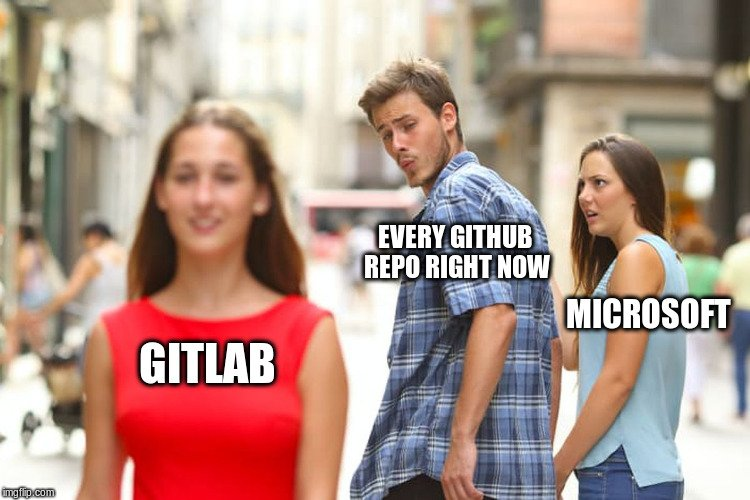
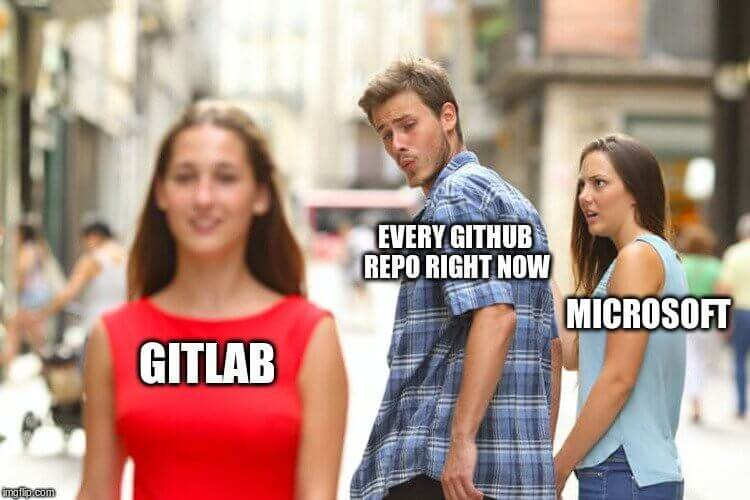
refactor: new essay, resize img, update theme

diff --git a/_posts/2021-5-26-nhap-mon-cong-tac-ky-su-do-an-ca-nhan-cuoi-ky.md b/_posts/2021-5-26-nhap-mon-cong-tac-ky-su-do-an-ca-nhan-cuoi-ky.md
@@ -1,0 +1,143 @@
+---
+title: Nhập Môn Công Tác Kỹ Sư - Đồ Án Cá Nhân Cuối Kỳ
+author: thuanpham2311
+date: 2021-05-26 17:07
+categories: [essay]
+tags: [university]
+---
+
+<center>Phạm Tấn Thuận</center>
+<center>MSSV: DH51902283</center>
+<center>Email: phamtanthuan2311@gmail.com</center>
+<center>Website: http://github.com/thuanpham2311</center>
+<center>Đại Học Công Nghệ Sài Gòn</center>
+
+![](/assets/img/logo-STU.png)
+
+## Mục lục
+
+* [Câu 01: Theo Anh/Chị, một kỹ sư giỏi cần có những phẩm chất và những kỹ năng gì? Vì sao? Liên hệ với bản thân của Anh/Chị, hiện tại đang thiếu những phẩm chất,kỹ năng gì? Hãy trình bày cách làm thế nào để  bổ sung những kỹ năng đó cho bản thân.](#câu-01-theo-anhchị-một-kỹ-sư-giỏi-cần-có-những-phẩm-chất-và-những-kỹ-năng-gì-vì-sao-liên-hệ-với-bản-thân-của-anhchị-hiện-tại-đang-thiếu-những-phẩm-chấtkỹ-năng-gì-hãy-trình-bày-cách-làm-thế-nào-để--bổ-sung-những-kỹ-năng-đó-cho-bản-thân)
+  + [Một kỹ sư giỏi cần có những phẩm chất:](#một-kỹ-sư-giỏi-cần-có-những-phẩm-chất)
+  + [Một kỹ sư giỏi cần có những kỹ năng:](#một-kỹ-sư-giỏi-cần-có-những-kỹ-năng)
+* [Câu 02: Sau khi tốt nghiệp Đại học, Anh/Chị mong đợi mức lương khởi điểm là bao nhiêu? Hãy lập kế hoạch để đạt được mức lương đó?](#câu-02-sau-khi-tốt-nghiệp-đại-học-anhchị-mong-đợi-mức-lương-khởi-điểm-là-bao-nhiêu-hãy-lập-kế-hoạch-để-đạt-được-mức-lương-đó)
+  + [Mức lương khởi điểm:](#mức-lương-khởi-điểm)
+  + [Mục tiêu và nhiệm vụ cho từng học kỳ](#mục-tiêu-và-nhiệm-vụ-cho-từng-học-kỳ)
+     * [Học kỳ 5:](#học-kỳ-5)
+     * [Học kỳ 6:](#học-kỳ-6)
+     * [Học kỳ 7:](#học-kỳ-7)
+     * [Học kỳ 8:](#học-kỳ-8)
+* [Câu 03: Sáng tạo là gì? Hãy đề xuất một ý tưởng để cải tiến một sản phẩm cụ thể trong cuộc sống. Chứng minh sản phẩm Anh/Chị mới đề xuất là sáng tạo.](#câu-03-sáng-tạo-là-gì-hãy-đề-xuất-một-ý-tưởng-để-cải-tiến-một-sản-phẩm-cụ-thể-trong-cuộc-sống-chứng-minh-sản-phẩm-anhchị-mới-đề-xuất-là-sáng-tạo)
+* [Câu 04: Trong các kỹ năng được học, Anh/Chị tâm đắc nhất kỹ năng nào? Vì sao?](#câu-04-trong-các-kỹ-năng-được-học-anhchị-tâm-đắc-nhất-kỹ-năng-nào-vì-sao)
+* [Tài liệu tham khảo](#tài-liệu-tham-khảo)
+
+## Câu 01: Theo Anh/Chị, một kỹ sư giỏi cần có những phẩm chất và những kỹ năng gì? Vì sao? Liên hệ với bản thân của Anh/Chị, hiện tại đang thiếu những phẩm chất,kỹ năng gì? Hãy trình bày cách làm thế nào để  bổ sung những kỹ năng đó cho bản thân.
+
+
+### Một kỹ sư giỏi cần có những phẩm chất:
+
+* Trung thực. Trong môi trường làm việc sự trung thực là yếu tố quan trọng, đặc biệt trong các lĩnh vực liên quan tới dữ liệu, bảo mật, vì một khi ta mất đi sự trung thực sẽ khiến niềm tin của mọi người vào ta bị ảnh hưởng.
+* Tò mò. Là một kỹ sư chúng ta gắn liền với sáng tạo, mà sự tò mò là nguồn cội của sáng tạo, ta tò mò ta sáng tạo. Điều này giúp ta có công việc hằng ngày có ý nghĩa hơn đối với bản thân.
+* Thích học hỏi. Đối với một người kỹ sư kiến thức về một lĩnh vực rất rộng, giống như một tảng băng chìm, ta chưa biết nó to lớn như thế nào, nên ta cứ liên tục học hỏi, và phát triển, ta tư duy ta tồn tại.
+* Chú trọng tiểu tiết. Đối với những lĩnh vực như thiết kế giao diện, database,... dù một sai lầm nhỏ có thể ảnh hưởng lớn đến hệ thống, công ty, người kỹ sư chú trọng vào tiểu tiết hiếm khi mắt phải những lỗi do không cẩn thận, phẩm chất này giúp chúng ta tạo uy tín của bản thân với mọi người.
+* Thái độ. Một trong một điều tiên quyết làm việc chung với nhau là thái độ, nếu chúng ta đặt cái tôi của bản thân lên trên một cách tiêu cực, thì sẽ ảnh hưởng tới khả năng phán đoán, xử lý vấn đề, hiệu quả làm việc của nhóm, tôn trọng ý kiến, lập luận của mọi người trong nhóm là một phẩm chất quan trọng của người kỹ sư.
+
+
+### Một kỹ sư giỏi cần có những kỹ năng:
+
+* Giải quyết vấn đề. Đối với một người kỹ sư kỹ năng giải quyết vấn đề là một trong những kỹ năng quan trọng bậc nhất, chúng ta sử dụng nó trong những vấn đề phát triển phần mềm, logic của công ty. Mỗi ngày đi làm là vấn đề ập đến với ta, nên kỹ năng giải quyết những vấn đề đó là một điều không thể thiếu đối với kỹ sư nói riêng và con người nói chung.
+* Tự học. Trong môi trường học thuật như đại học, cao đẳng, với những ngành khối STEM nói riêng như công nghệ thông tin, đối với bản thân tôi nhận thấy việc tự học là một điều hiển nhiên hằng ngày, vì sự tò mò, muốn khám phá của bản thân, trong môi trường học thuật như đại học sẽ dạy cho ta những kiến thức nền, từ đó chúng ta có thể tự học và tìm hiểu thêm về nó.
+* Quản lý dự án. Kỹ năng này rất cần thiết trong việc phát triển sản phẩm, sẽ không hiệu quả cao nếu chúng ta bỏ qua bước quản lý dự án, nó giúp chúng ta biết những chỗ không ổn cần khắc phục, hay đơn giản cải tiến hiệu suất làm việc.
+* Đọc, viết tài liệu. Với ngành phát triển phần mềm nói riêng việc đọc tài liệu của một công nghệ dùng trong dự án, là một điều thường ngày nó giúp chúng ta hiểu rõ về công nghệ đó hoạt động như thế nào? sử dụng nó làm sao? đọc như thế nào để lấy được những điều ta cần đó là một kỹ năng cần luyện tập, tương tự với việc đọc là việc viết giúp mọi người có thể hiểu được dự án của ta hoạt động ra sao, công nghệ của ta phát triển sử dụng nó như thế nào, đồng thời việc viết sẽ giúp chúng ta có tư duy tốt hơn.
+* Làm việc nhóm & giao tiếp. Với kỹ năng này giúp chúng ta lấy được những thông tin và làm việc hiệu quả hơn, khi chúng ta giao tiếp với đồng nghiệp về một chức năng mới chẳng hạng, chúng ta có thể tham khảo được ý kiến, cách giải quyết vấn đề của người khác, từ đó cũng cố thêm lập luận, hướng giải quyết của ta hơn.
+* Khả năng thích ứng.  Đối với những lúc chạy tiến độ dự án, hay sự cố hệ thống ập đến ta sẽ đối mặt với những vấn đề, ta cần có kỹ năng thích ứng vào những tình huống tương tự đó, nếu tinh thần chúng ta không tốt thì sẽ khiến vấn để trở nên nghiêm trọng, giảm hiệu suất làm việc.
+
+Hiện tại tôi vẫn đang trao dồi những  kỹ năng trên, theo tôi không thể nào đạt đến sự hoàn hảo của một kỹ năng, vào lúc này kỹ năng giao tiếp và làm việc nhóm với tôi còn yếu nên tôi đang trên đường học hỏi và thực hành nó.
+
+Đối với tôi để bổ sung kỹ năng giao tiếp và làm việc nhóm thì hiện tại tôi đang chủ động làm trưởng nhóm, làm một người dẫn dắt các thành viên trong những môn học mà tôi đang theo học. Tôi là một con người hay tò mò tìm hiểu nhiều về các lý thuyết nhưng lại thiếu trải nghiệm thực tế. Gần đây tôi đang đang ứng tuyển vào một vị trí là Google developer student club Leader tại trường của tôi đang theo học, hy vọng khi trúng tuyển vị trí ấy, tôi có thể có nhiều kinh nghiệm hơn trong việc giao tiếp và dẫn dắt đội nhóm.
+
+## Câu 02: Sau khi tốt nghiệp Đại học, Anh/Chị mong đợi mức lương khởi điểm là bao nhiêu? Hãy lập kế hoạch để đạt được mức lương đó?
+
+### Mức lương khởi điểm:
+
+Sau khi tốt nghiệp tôi hi vọng sẽ có một công việc Front-end Developer, remote nước ngoài hay làm trong một môi trường sử dụng tiếng Anh tại Việt Nam, với mức lương khởi điểm trong mức khá với vị trí của tôi ứng tuyển, tôi ứng tính khoản $800 USD, đây là một mức lương không dễ cũng không tới mức khó đạt được.
+
+Với mức lương như vậy những thứ tôi cần có là tiếng Anh, những kỹ năng làm mềm và kỹ năng cứng.
+
+Hiện tại tôi còn hai năm tương đương bốn học kỳ nữa là tốt nghiệp, tôi sẽ đặt mục tiêu cho từng học kỳ và một số nhiệm vụ mà tôi nên làm.
+
+### Mục tiêu và nhiệm vụ cho từng học kỳ
+
+#### Học kỳ 5:
+
+* Nắm cơ bản về design (UI-UX).
+* Nắm cơ bản về thuật toán và cấu trúc dữ liệu. Giải được các bài toán có độ khó easy trên leet code. Ưu tiên sử dụng js khi làm bài toán để nâng cao kiến thức về js.
+* Nắm cơ bản về Front-end. Hiểu rõ mình đang làm cái gì với html/css, nắm cơ bản về js.
+* Thực hiện một dự án open source mà bản thân thấy tự hào. Rủ được các đồng chí trong trường cùng tham gia. Tạo ra một giá trị nào đó với dự án.
+* Thuyết trình trên bằng tiếng anh chuyên nghiệp.
+* Cải thiện vốn từ, logic khi sử dụng tiếng việt.
+
+#### Học kỳ 6:
+
+* Thực hiện một dự án open source mà bản thân thấy tự hào.
+* Thiết kế được một website chuyên nghiệp.
+* Hiểu rõ về UI-UX, có thể chia sẻ lại những kiến thức cơ bản lại cho mọi người, hay bàn luận được về một đề tài trong UI-UX
+* Giao tiếp tiếng anh, tiếng việt thoải mái trong công việc, cuộc sống
+* Có thể tự tin về kỹ năng front-end, gặp dự án nào cũng làm được (tự tin)
+* Thuật toán cấu trúc dữ liệu ở trình độ xài được trong công việc. Thoải mái giải được các bài toán có độ khó easy trên leetcode.
+
+#### Học kỳ 7:
+
+* Thực tập trong môi trường tốt, giao tiếp tiếng anh, có nhiều chuyên gia về nhiều mảng công nghệ ở xung quanh,... (Mục tiêu phụ thuộc vào học kỳ thực tập khoảng 2 tháng nên có thể sớm hơn một học kỳ)
+* Tham dự một kỳ thi hackathon
+* Thuật toán cấu trúc dữ liệu ở mức trung bình, giải được các bài có độ khó medium, hard trên leetcode
+* Xây dựng nên một dự án open source mà bản thân thấy tự hào.
+* Thoải mái sử dụng tiếng anh, tiếng việt trong cuộc sống hằng ngày, làm việc, giao tiếp với các bạn mỹ, châu âu, hàn, nhật, trung quốc, sing,... sử dụng tiếng anh.
+
+#### Học kỳ 8:
+
+* Duy trì được trình độ cấu trúc dữ liệu và thuật toán, thoải mái giải được các bài toán có độ khó medium trên leetcode
+* Có tên tuổi trong làng front-end web Việt Nam. Tỷ lệ nhận biết 1/1000 người nhận ra.
+* Nhận được lời giới thiệu từ những chuyên gia lão làng vào làm việc ở những công ty tốt.
+* Có điểm tốt nghiệp gpa trên 3.0/4.0 (7.5/10)
+
+##  Câu 03: Sáng tạo là gì? Hãy đề xuất một ý tưởng để cải tiến một sản phẩm cụ thể trong cuộc sống. Chứng minh sản phẩm Anh/Chị mới đề xuất là sáng tạo.
+
+Định nghĩa về sáng tạo:
+
+>  “Creativity is a phenomenon whereby something somehow new and somehow valuable is formed. The created item may be intangible (such as an idea, a scientific theory, a musical composition, or a joke) or a physical object (such as an invention, a printed literary work, or a painting).” — Wikipedia
+
+Theo suy nghĩ của tôi thì sáng tạo là tạo ra một giá trị nào đó, có thể tồn tại ở dạng vật chất hay vô hình, sáng tạo có thể là một sự sáng tạo của cái có trước, sáng tạo có thể là một sự trộm cắp, nhưng trộm như là một nghệ sĩ thì đó mới là sáng tạo.
+
+Trong cuộc sống có nhiều vật thể khác nào mà ta có thể sáng tạo thêm dựa vào lý luận TRIZ, tôi sẽ cải tiến, sáng tạo một vật thể giúp ích cho cuộc sống của tôi.
+
+Tôi chọn vật thể tôi muốn cải tiếng, sáng tạo là cái gối. Xung quanh tôi có những đồ phục phụ trong cuộc sống hằng ngày của tôi như quạt máy, niệm, bình tỏa tinh dầu.
+
+Những tính chất của vật thể:
+
+* Quạt máy: mát, thông gió
+* Niệm: diện tích lớn, mềm, đàn hồi
+* Bình toả tinh dầu: cấp ẩm cho phòng, tỏa mùi hương thư giãn dễ chịu
+
+Sau đó tôi sẽ kết hợp những tính chất hữu ý của chúng lại với nhau: mát, thông gió, mềm, đàn hồi, tỏa mùi thơm dễ chịu. Như vậy chiết gói của tôi sẽ có những tính chất như tôi vừa liệt kê.
+
+Với chiếc gối mới của tôi thích hợp vào những ngày nóng nực ở Việt Nam, tiết kiệm năng lượng vì không sử dụng điện, mang lại cảm giác thư giản như đang mát xa trị liệu.
+
+Để thực hiện được những điều trên tôi cần chiếc gối của tôi được làm từ vật liệu tỏa nhiệt lạnh, được tẩm tinh dầu, và có độ đàn hồi và mềm như lông cừu. Vì chỉ cải tiếng về vật liệu nên hình dạng, kích thước tổng thể sẽ giống với những chiếc gối bình thường. Tôi sản phẩm của tôi sẽ giải quyết được những vấn đề thiết yếu trong cuộc sống với giá thành phải chăng, sản phẩm sẽ biến tôi và các nhà đầu tư và những người cùng đồng hành với tôi trở thành triệu phú USD.
+
+Về mặt sáng tạo, tôi lấy ý tưởng từ những sự vật trong cuộc sống, cải tiếng vào sáng tạo ra một giá trị mới, tôi cho rằng tôi sử dụng ý tưởng của tôi như một người nghệ sĩ, bản thân tôi đáng giá đây là một sản phẩm gối thay đổi cuộc sống ở các nước có khí hậu nóng, và thị trường màu mỡ như ở châu phi.
+
+## Câu 04: Trong các kỹ năng được học, Anh/Chị tâm đắc nhất kỹ năng nào? Vì sao?
+
+Sau khi học khóa học nhập môn công tác kỹ sư của thầy Lâm, tôi đã được khai sáng về những chủ đề mới như là TRIZ chẳng hạn, tôi là một người rất hay tìm hiểu về những phương pháp để cải hiệu suất làm việc của bản thân như phương pháp ghi chú zettelkasten chẳng hạn, tôi không ngờ là có tồn tại về phương pháp TRIZ này, có lẽ tôi chưa nghiên cứu sâu về những vấn đề liên quan tới khoa học này, đây là một điều tốt để tôi nhận định lại bản thân mình. Theo tôi những kiến thức trong môn này giúp tôi trong quá trình làm việc nhóm với brainstorming, trước đó tôi có sử dụng phương pháp brainstorming này nhưng chỉ làm với bản thân tôi để suy nghĩ về cách giải quyết vấn đề, được trải nghiệm brainstorming với nhóm là một cơ hội đối với tôi, có thể vận dụng tối đa công lực của nhóm, và mọi người có thể bàn luận thể hiện được tư duy của bản thân tốt hơn.
+
+Ngoài những kiến thức hàn lâm ra, tôi cũng được thầy Lâm chia sẻ về môi trường làm việc thực tế, tư duy trong công việc và sự nghiêm túc trong quá trình làm việc. Đặc biệt tôi rất thích cách thầy Lâm chia sẻ về cách đặt chủ đề của email, ví dụ: [STU],  [DSC], nó làm cho hộp mail của tôi nó rõ ràng, dễ đọc hơn. Thông qua cách làm việc, giao bài tập của thầy, tôi cũng học hỏi được nhiều thứ. Theo tôi đánh giá thì môn này rất thực tiễn, Tôi biết tôi đang học cái gì? Và nó để làm gì?
+
+## Tài liệu tham khảo
+
+1. Đặng Trường Sơn (2018). Nhập môn công tác kỹ sư. [http://daotao1.stu.edu.vn/Foxdata/Tailieu/20202/CS03047.pdf](http://daotao1.stu.edu.vn/Foxdata/Tailieu/20202/CS03047.pdf)
+2. Indeed (2021).  Learn About Being a Software Engineer. [https://www.indeed.com/career-advice/careers/what-does-a-software-engineer-do](https://www.indeed.com/career-advice/careers/what-does-a-software-engineer-do)
+3. Matt Warcholinski (2021). 5 Most Crucial Software Engineer Skills. [https://brainhub.eu/blog/software-engineer-skills/](https://brainhub.eu/blog/software-engineer-skills/)
+4. Tom Winter (2018). 8 must have qualities of a great software developer. [https://devskiller.com/qualities-great-developer/](https://devskiller.com/qualities-great-developer/)
+5. ITviec.com (2021). Front-end jobs in Vietnam. [https://itviec.com/it-jobs/frontend](https://itviec.com/it-jobs/frontend)
+6. Wikipedia (2021). Creativity. [https://en.wikipedia.org/wiki/Creativity](https://en.wikipedia.org/wiki/Creativity)
+7. Wikipedia (2021). TRIZ. [https://en.wikipedia.org/wiki/TRIZ](https://en.wikipedia.org/wiki/TRIZ)
